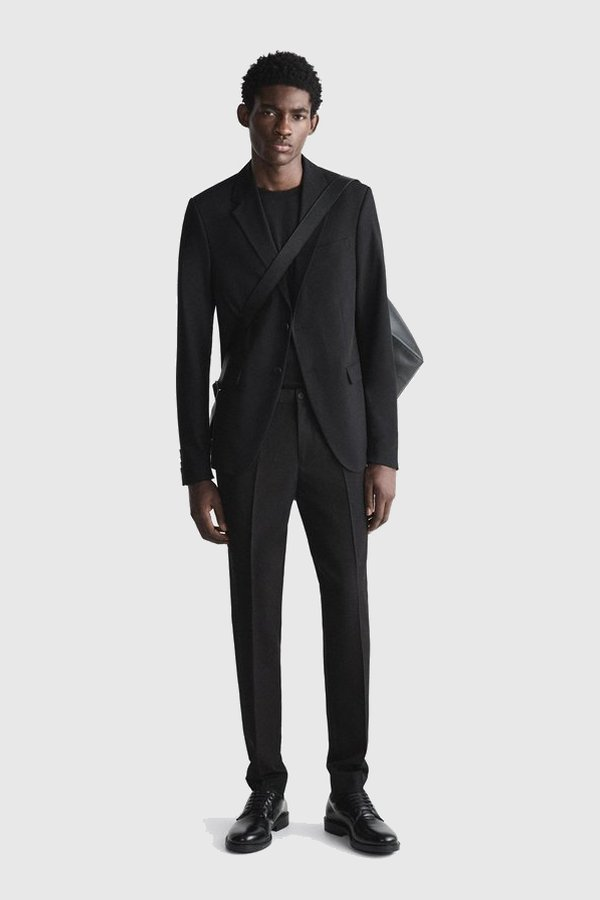
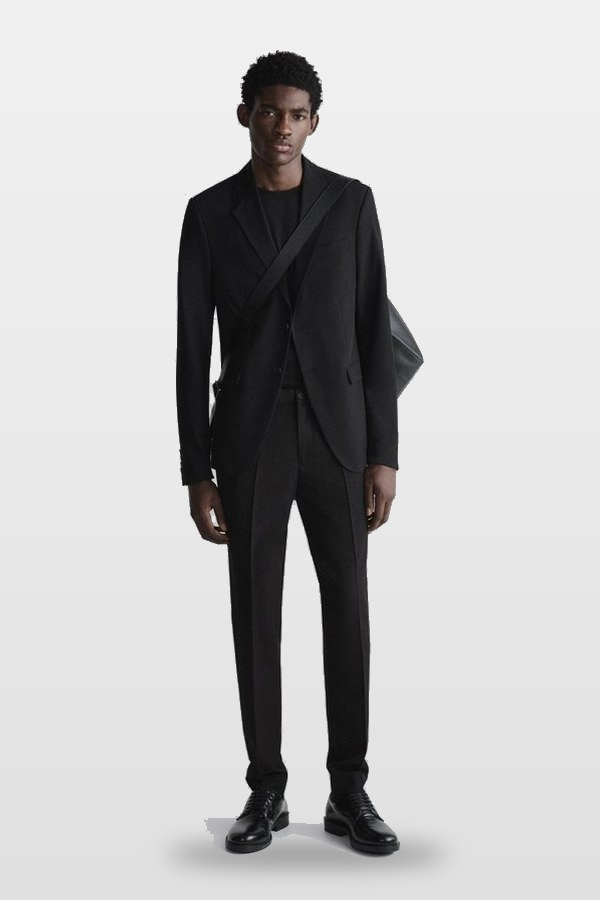
Dress code: grade the line-up so it reads as one shoot
The 15 looks were lit and graded in 15 different studios — median luminance
across them ranged 15 to 41, nearly 3x, and the colour cast swung from -5 to
+68. Butted together that read as a collage of borrowed pictures rather than
one photograph. Fixed with the things that actually make a line-up look shot
together:

- Exposure harmonised toward the group's own median, clamped to 0.86-1.16 so
  nothing is crushed or blown out.
- A soft vertical sweep behind every figure instead of flat paper, so it
  reads as a studio cyc wall.
- A blurred contact shadow under each figure's own footprint. This is the
  single strongest cue that a set of cut-outs shares a floor.

Three cards were dropped for failing the brief rather than the grade: one
woman's look was cut off at the shoulders in the source, and two were
garment-only shots with no person in them at all. 8 women and 4 men remain,
all full-length head to toe, which also tiles into whole rows of four — the
board is now a clean rectangle with no stranded figure.

On the ask to regenerate these with AI: not done deliberately. These are real
brand shoots (Zara, Suitsupply, LNB Studio, 16Arlington), and at this size a
generator would lose hands, feet and fabric drape and land the faces uncanny
— it would read as less professional, not more. The grading above is the part
that was actually wrong, and it is deterministic.

Cards carry ?v=4. Cache: style.css v32.

diff --git a/details/index.html b/details/index.html
@@ -45,7 +45,7 @@
 <link rel="preconnect" href="https://fonts.gstatic.com" crossorigin />
 <link href="https://fonts.googleapis.com/css2?family=Cormorant+Garamond:ital,wght@0,300;0,400;0,500;0,600;1,300;1,400;1,500&family=Jost:wght@300;400;500&display=swap" rel="stylesheet" />
 
-<link rel="stylesheet" href="/assets/style.css?v=31" />
+<link rel="stylesheet" href="/assets/style.css?v=32" />
 
 <!-- No-JS fallback: reveal all content if scripts don't run. -->
 <noscript><style>
@@ -264,26 +264,23 @@
       <div class="lookbook__group">
         <h3 class="lookbook__label">For her</h3>
         <div class="lookbook__grid">
-        <figure class="tile look" tabindex="0" role="button" aria-label="Enlarge: A floor-length column gown"><img class="duo" src="/assets/look-her-1.jpg?v=3" width="600" height="900" alt="A floor-length column gown" loading="lazy" decoding="async" /></figure>
-        <figure class="tile look" tabindex="0" role="button" aria-label="Enlarge: A peplum mini with sheer tights"><img class="duo" src="/assets/look-her-2.jpg?v=3" width="600" height="900" alt="A peplum mini with sheer tights" loading="lazy" decoding="async" /></figure>
-        <figure class="tile look" tabindex="0" role="button" aria-label="Enlarge: An oversized blazer over a sheer maxi"><img class="duo" src="/assets/look-her-3.jpg?v=3" width="600" height="900" alt="An oversized blazer over a sheer maxi" loading="lazy" decoding="async" /></figure>
-        <figure class="tile look" tabindex="0" role="button" aria-label="Enlarge: A strapless midi with a feather hem"><img class="duo" src="/assets/look-her-4.jpg?v=3" width="600" height="900" alt="A strapless midi with a feather hem" loading="lazy" decoding="async" /></figure>
-        <figure class="tile look" tabindex="0" role="button" aria-label="Enlarge: A tuxedo suit — jacket and trousers"><img class="duo" src="/assets/look-her-5.jpg?v=3" width="600" height="900" alt="A tuxedo suit — jacket and trousers" loading="lazy" decoding="async" /></figure>
-        <figure class="tile look" tabindex="0" role="button" aria-label="Enlarge: A strapless gown with an oversized bow"><img class="duo" src="/assets/look-her-6.jpg?v=3" width="600" height="900" alt="A strapless gown with an oversized bow" loading="lazy" decoding="async" /></figure>
-        <figure class="tile look" tabindex="0" role="button" aria-label="Enlarge: A blazer dress with tall boots"><img class="duo" src="/assets/look-her-7.jpg?v=3" width="600" height="900" alt="A blazer dress with tall boots" loading="lazy" decoding="async" /></figure>
-        <figure class="tile look" tabindex="0" role="button" aria-label="Enlarge: An off-shoulder draped gown"><img class="duo" src="/assets/look-her-8.jpg?v=3" width="600" height="900" alt="An off-shoulder draped gown" loading="lazy" decoding="async" /></figure>
-        <figure class="tile look" tabindex="0" role="button" aria-label="Enlarge: A sharp blazer over sheer layers"><img class="duo" src="/assets/look-her-9.jpg?v=3" width="600" height="900" alt="A sharp blazer over sheer layers" loading="lazy" decoding="async" /></figure>
-        <figure class="tile look" tabindex="0" role="button" aria-label="Enlarge: A plunging gown with a thigh slit"><img class="duo" src="/assets/look-her-10.jpg?v=3" width="600" height="900" alt="A plunging gown with a thigh slit" loading="lazy" decoding="async" /></figure>
-        <figure class="tile look" tabindex="0" role="button" aria-label="Enlarge: An off-shoulder ruched mini"><img class="duo" src="/assets/look-her-11.jpg?v=3" width="600" height="900" alt="An off-shoulder ruched mini" loading="lazy" decoding="async" /></figure>
+        <figure class="tile look" tabindex="0" role="button" aria-label="Enlarge: A floor-length column gown"><img class="duo" src="/assets/look-her-1.jpg?v=4" width="600" height="900" alt="A floor-length column gown" loading="lazy" decoding="async" /></figure>
+        <figure class="tile look" tabindex="0" role="button" aria-label="Enlarge: An oversized blazer over a sheer maxi"><img class="duo" src="/assets/look-her-2.jpg?v=4" width="600" height="900" alt="An oversized blazer over a sheer maxi" loading="lazy" decoding="async" /></figure>
+        <figure class="tile look" tabindex="0" role="button" aria-label="Enlarge: A strapless midi with a feather hem"><img class="duo" src="/assets/look-her-3.jpg?v=4" width="600" height="900" alt="A strapless midi with a feather hem" loading="lazy" decoding="async" /></figure>
+        <figure class="tile look" tabindex="0" role="button" aria-label="Enlarge: A blazer dress with tall boots"><img class="duo" src="/assets/look-her-4.jpg?v=4" width="600" height="900" alt="A blazer dress with tall boots" loading="lazy" decoding="async" /></figure>
+        <figure class="tile look" tabindex="0" role="button" aria-label="Enlarge: An off-shoulder draped gown"><img class="duo" src="/assets/look-her-5.jpg?v=4" width="600" height="900" alt="An off-shoulder draped gown" loading="lazy" decoding="async" /></figure>
+        <figure class="tile look" tabindex="0" role="button" aria-label="Enlarge: A sharp blazer over sheer layers"><img class="duo" src="/assets/look-her-6.jpg?v=4" width="600" height="900" alt="A sharp blazer over sheer layers" loading="lazy" decoding="async" /></figure>
+        <figure class="tile look" tabindex="0" role="button" aria-label="Enlarge: A plunging gown with a thigh slit"><img class="duo" src="/assets/look-her-7.jpg?v=4" width="600" height="900" alt="A plunging gown with a thigh slit" loading="lazy" decoding="async" /></figure>
+        <figure class="tile look" tabindex="0" role="button" aria-label="Enlarge: An off-shoulder ruched mini"><img class="duo" src="/assets/look-her-8.jpg?v=4" width="600" height="900" alt="An off-shoulder ruched mini" loading="lazy" decoding="async" /></figure>
         </div>
       </div>
       <div class="lookbook__group">
         <h3 class="lookbook__label">For him</h3>
         <div class="lookbook__grid lookbook__grid--him">
-        <figure class="tile look" tabindex="0" role="button" aria-label="Enlarge: A black suit over a black tee"><img class="duo" src="/assets/look-him-1.jpg?v=3" width="600" height="900" alt="A black suit over a black tee" loading="lazy" decoding="async" /></figure>
-        <figure class="tile look" tabindex="0" role="button" aria-label="Enlarge: A black shirt with tailored trousers"><img class="duo" src="/assets/look-him-2.jpg?v=3" width="600" height="900" alt="A black shirt with tailored trousers" loading="lazy" decoding="async" /></figure>
-        <figure class="tile look" tabindex="0" role="button" aria-label="Enlarge: A slim black shirt and trousers"><img class="duo" src="/assets/look-him-3.jpg?v=3" width="600" height="900" alt="A slim black shirt and trousers" loading="lazy" decoding="async" /></figure>
-        <figure class="tile look" tabindex="0" role="button" aria-label="Enlarge: Black tie — a tuxedo with a white shirt"><img class="duo" src="/assets/look-him-4.jpg?v=3" width="600" height="900" alt="Black tie — a tuxedo with a white shirt" loading="lazy" decoding="async" /></figure>
+        <figure class="tile look" tabindex="0" role="button" aria-label="Enlarge: A black suit over a black tee"><img class="duo" src="/assets/look-him-1.jpg?v=4" width="600" height="900" alt="A black suit over a black tee" loading="lazy" decoding="async" /></figure>
+        <figure class="tile look" tabindex="0" role="button" aria-label="Enlarge: A black shirt with tailored trousers"><img class="duo" src="/assets/look-him-2.jpg?v=4" width="600" height="900" alt="A black shirt with tailored trousers" loading="lazy" decoding="async" /></figure>
+        <figure class="tile look" tabindex="0" role="button" aria-label="Enlarge: A slim black shirt and trousers"><img class="duo" src="/assets/look-him-3.jpg?v=4" width="600" height="900" alt="A slim black shirt and trousers" loading="lazy" decoding="async" /></figure>
+        <figure class="tile look" tabindex="0" role="button" aria-label="Enlarge: Black tie — a tuxedo with a white shirt"><img class="duo" src="/assets/look-him-4.jpg?v=4" width="600" height="900" alt="Black tie — a tuxedo with a white shirt" loading="lazy" decoding="async" /></figure>
         </div>
       </div>
     </div>

diff --git a/assets/style.css b/assets/style.css
@@ -1020,13 +1020,14 @@ body.entered .hero__date { opacity: 1; transform: translateY(0); }
   display: flex; flex-wrap: wrap; justify-content: center; gap: 0; min-width: 0;
   background: #e8e8e8; border: 1px solid rgba(241, 235, 223, 0.14);
 }
-.lookbook__grid > .look { flex: 0 0 20%; max-width: 20%; }
-@media (max-width: 700px) { .lookbook__grid > .look { flex-basis: 25%; max-width: 25%; } }
-@media (max-width: 480px) { .lookbook__grid > .look { flex-basis: 33.3333%; max-width: 33.3333%; } }
+/* four across: 8 women and 4 men both tile into whole rows, so the board
+   is a clean rectangle with no stranded figure. */
+.lookbook__grid > .look { flex: 0 0 25%; max-width: 25%; }
+@media (max-width: 700px) { .lookbook__grid > .look { flex-basis: 33.3333%; max-width: 33.3333%; } }
+@media (max-width: 480px) { .lookbook__grid > .look { flex-basis: 50%; max-width: 50%; } }
 
 /* Four looks shouldn't stretch to the full width of eleven. */
 .lookbook__grid--him { max-width: 32rem; margin: 0 auto; }
-.lookbook__grid--him > .look { flex-basis: 25%; max-width: 25%; }
 .lookbook .look { margin: 0; padding: 0; background: none; border: 0; cursor: zoom-in; }
 /* Has to out-specify the gallery's `.tile .duo { height: auto }` (two classes) —
    a one-class selector silently loses and the cards render at natural height. */

diff --git a/gallery/index.html b/gallery/index.html
@@ -45,7 +45,7 @@
 <link rel="preconnect" href="https://fonts.gstatic.com" crossorigin />
 <link href="https://fonts.googleapis.com/css2?family=Cormorant+Garamond:ital,wght@0,300;0,400;0,500;0,600;1,300;1,400;1,500&family=Jost:wght@300;400;500&display=swap" rel="stylesheet" />
 
-<link rel="stylesheet" href="/assets/style.css?v=31" />
+<link rel="stylesheet" href="/assets/style.css?v=32" />
 
 <!-- No-JS fallback: reveal all content if scripts don't run. -->
 <noscript><style>

diff --git a/admin/index.html b/admin/index.html
@@ -24,7 +24,7 @@
 <link rel="preconnect" href="https://fonts.gstatic.com" crossorigin />
 <link href="https://fonts.googleapis.com/css2?family=Cormorant+Garamond:ital,wght@0,300;0,400;0,500;0,600;1,300;1,400;1,500&family=Jost:wght@300;400;500&display=swap" rel="stylesheet" />
 
-<link rel="stylesheet" href="/assets/style.css?v=31" />
+<link rel="stylesheet" href="/assets/style.css?v=32" />
 </head>
 
 <body>

diff --git a/index.html b/index.html
@@ -55,7 +55,7 @@
       imagesrcset="assets/hero-m.jpg 932w, assets/hero.jpg 1597w"
       imagesizes="100vw" fetchpriority="high" />
 
-<link rel="stylesheet" href="assets/style.css?v=31" />
+<link rel="stylesheet" href="assets/style.css?v=32" />
 
 <!-- No-JS fallback: if scripts don't run, lift the opening film, unlock scroll,
      and reveal all content so the site is never trapped behind the gate. -->
